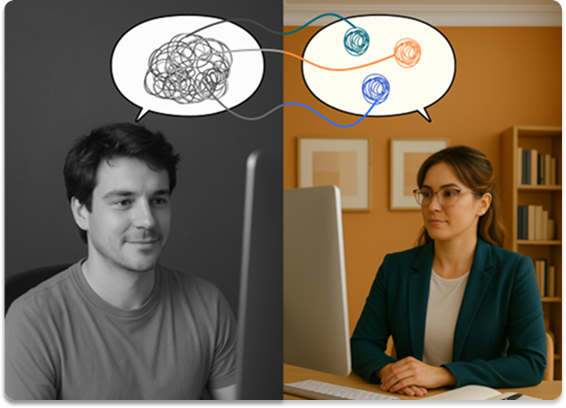
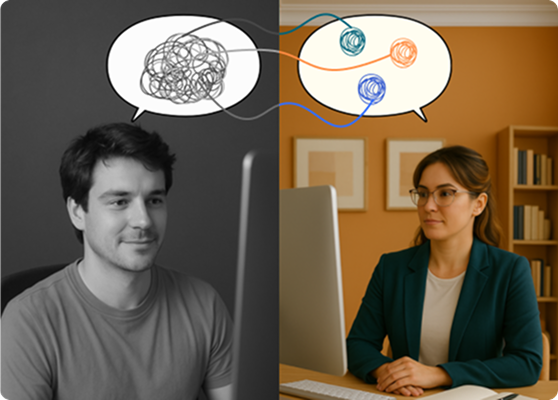
feat(website): fix image

diff --git a/apps/website/src/app/_components/beneficts.tsx b/apps/website/src/app/_components/beneficts.tsx
@@ -106,7 +106,7 @@ export const BenefitsSection = () => {
                   }
                   width={600}
                   height={400}
-                  className="h-full w-full object-cover transition-opacity duration-500"
+                  className="h-full w-full transition-opacity duration-500"
                 />
               </div>
               <div className="absolute inset-0 bg-gradient-to-t from-black/20 to-transparent" />

diff --git a/apps/website/src/app/_components/hero.tsx b/apps/website/src/app/_components/hero.tsx
@@ -44,7 +44,7 @@ export const HeroSection = () => {
           />
         </div>
       </div>
-      <div className="bg-primary flex items-center justify-center py-2 text-sm text-white">
+      <div className="bg-primary flex items-center justify-center py-2 text-center text-sm text-white">
         <p>
           <strong>Coming soon!</strong> Il lancio della piattaforma è previsto
           per <strong>inizio 2026!</strong>
